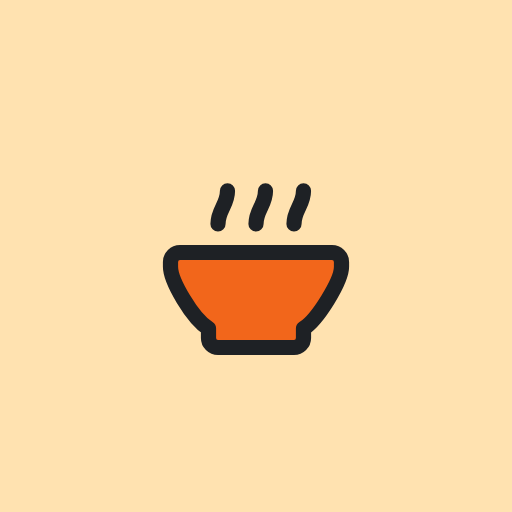
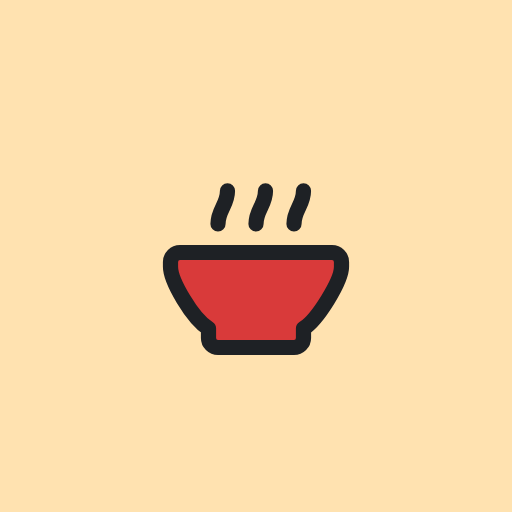
Use tomato red as the main colour, as KK picked
Claude-Session: https://claude.ai/code/session_01UUho5tkZFmqzneSbudSL4Z

Changed region(s): [[0.3438, 0.5, 0.6562, 0.6875]]

diff --git a/index.html b/index.html
@@ -21,11 +21,11 @@
 <link rel="stylesheet" href="https://fonts.googleapis.com/css2?family=Unbounded:wght@500;700&family=Nunito:ital,wght@0,400;0,600;0,700;0,800;1,400&display=swap">
 <style>
 /* Layout: "Citrus & herbs". Clean off-white page with charcoal text (no browns), white cards, today's meals up top, the week as seven day cards with a juicy tile per meal
-   (breakfast mango, lunch lime, dinner papaya, snack strawberry). Orange for actions and emphasis, lime green for ticks.
-   Colours and fonts are this app's own: none of KK's other apps use orange, or Unbounded with Nunito (both have Cyrillic). */
+   (breakfast mango, lunch lime, dinner papaya, snack strawberry). Tomato red for actions and emphasis, lime green for ticks.
+   Colours and fonts are this app's own: none of KK's other apps use tomato red as the main colour, or Unbounded with Nunito (both have Cyrillic). */
 :root {
   --bg: #FAFAF7; --dot: transparent; --surface: #FFFFFF; --surface-2: #F3F4F1; --ink: #1E2125; --muted: #686E76; --line: #E6E7E3; --line-strong: #1E2125;
-  --accent: #F2661B; --accent-ink: #FFFFFF; --accent-soft: #FFE6D6; --pop: #FFE2B0;
+  --accent: #D93A3A; --accent-ink: #FFFFFF; --accent-soft: #FDE1E0; --pop: #FFE2B0;
   --bf-1: #FFE2B0; --bf-ink: #A45A00;
   --ln-1: #E4F4C2; --ln-ink: #4E7A10;
   --dn-1: #FFD2BF; --dn-ink: #B83A12;
@@ -39,15 +39,15 @@
 }
 @media (prefers-color-scheme: dark) { :root:not([data-theme="light"]) {
   --bg: #141619; --dot: transparent; --surface: #1D2024; --surface-2: #25292E; --ink: #F3F4F2; --muted: #A3A9B0; --line: #2E3238; --line-strong: #F3F4F2;
-  --accent: #FF8A47; --accent-ink: #141619; --accent-soft: #3A2A22; --pop: #3A2A22;
+  --accent: #FF6B66; --accent-ink: #141619; --accent-soft: #3A2426; --pop: #3A2426;
   --bf-1: #2B2A26; --bf-ink: #FFC56B; --ln-1: #252B22; --ln-ink: #BDE57A; --dn-1: #2D2523; --dn-ink: #FF9D78; --sn-1: #2D2329; --sn-ink: #FF9DB8;
-  --warn: #FF9D78; --warn-soft: #3A2A22; --ok: #A6D65A;
+  --warn: #FF9D78; --warn-soft: #3A2426; --ok: #A6D65A;
   --shadow: 0 1px 2px rgba(0, 0, 0, .3), 0 6px 18px rgba(0, 0, 0, .3); --shadow-lg: 0 18px 50px rgba(0, 0, 0, .6); color-scheme: dark } }
 :root[data-theme="dark"] {
   --bg: #141619; --dot: transparent; --surface: #1D2024; --surface-2: #25292E; --ink: #F3F4F2; --muted: #A3A9B0; --line: #2E3238; --line-strong: #F3F4F2;
-  --accent: #FF8A47; --accent-ink: #141619; --accent-soft: #3A2A22; --pop: #3A2A22;
+  --accent: #FF6B66; --accent-ink: #141619; --accent-soft: #3A2426; --pop: #3A2426;
   --bf-1: #2B2A26; --bf-ink: #FFC56B; --ln-1: #252B22; --ln-ink: #BDE57A; --dn-1: #2D2523; --dn-ink: #FF9D78; --sn-1: #2D2329; --sn-ink: #FF9DB8;
-  --warn: #FF9D78; --warn-soft: #3A2A22; --ok: #A6D65A;
+  --warn: #FF9D78; --warn-soft: #3A2426; --ok: #A6D65A;
   --shadow: 0 1px 2px rgba(0, 0, 0, .3), 0 6px 18px rgba(0, 0, 0, .3); --shadow-lg: 0 18px 50px rgba(0, 0, 0, .6); color-scheme: dark }
 
 * { box-sizing: border-box }

diff --git a/meal-planner.html b/meal-planner.html
@@ -4,11 +4,11 @@
 <link rel="stylesheet" href="https://fonts.googleapis.com/css2?family=Unbounded:wght@500;700&family=Nunito:ital,wght@0,400;0,600;0,700;0,800;1,400&display=swap">
 <style>
 /* Layout: "Citrus & herbs". Clean off-white page with charcoal text (no browns), white cards, today's meals up top, the week as seven day cards with a juicy tile per meal
-   (breakfast mango, lunch lime, dinner papaya, snack strawberry). Orange for actions and emphasis, lime green for ticks.
-   Colours and fonts are this app's own: none of KK's other apps use orange, or Unbounded with Nunito (both have Cyrillic). */
+   (breakfast mango, lunch lime, dinner papaya, snack strawberry). Tomato red for actions and emphasis, lime green for ticks.
+   Colours and fonts are this app's own: none of KK's other apps use tomato red as the main colour, or Unbounded with Nunito (both have Cyrillic). */
 :root {
   --bg: #FAFAF7; --dot: transparent; --surface: #FFFFFF; --surface-2: #F3F4F1; --ink: #1E2125; --muted: #686E76; --line: #E6E7E3; --line-strong: #1E2125;
-  --accent: #F2661B; --accent-ink: #FFFFFF; --accent-soft: #FFE6D6; --pop: #FFE2B0;
+  --accent: #D93A3A; --accent-ink: #FFFFFF; --accent-soft: #FDE1E0; --pop: #FFE2B0;
   --bf-1: #FFE2B0; --bf-ink: #A45A00;
   --ln-1: #E4F4C2; --ln-ink: #4E7A10;
   --dn-1: #FFD2BF; --dn-ink: #B83A12;
@@ -22,15 +22,15 @@
 }
 @media (prefers-color-scheme: dark) { :root:not([data-theme="light"]) {
   --bg: #141619; --dot: transparent; --surface: #1D2024; --surface-2: #25292E; --ink: #F3F4F2; --muted: #A3A9B0; --line: #2E3238; --line-strong: #F3F4F2;
-  --accent: #FF8A47; --accent-ink: #141619; --accent-soft: #3A2A22; --pop: #3A2A22;
+  --accent: #FF6B66; --accent-ink: #141619; --accent-soft: #3A2426; --pop: #3A2426;
   --bf-1: #2B2A26; --bf-ink: #FFC56B; --ln-1: #252B22; --ln-ink: #BDE57A; --dn-1: #2D2523; --dn-ink: #FF9D78; --sn-1: #2D2329; --sn-ink: #FF9DB8;
-  --warn: #FF9D78; --warn-soft: #3A2A22; --ok: #A6D65A;
+  --warn: #FF9D78; --warn-soft: #3A2426; --ok: #A6D65A;
   --shadow: 0 1px 2px rgba(0, 0, 0, .3), 0 6px 18px rgba(0, 0, 0, .3); --shadow-lg: 0 18px 50px rgba(0, 0, 0, .6); color-scheme: dark } }
 :root[data-theme="dark"] {
   --bg: #141619; --dot: transparent; --surface: #1D2024; --surface-2: #25292E; --ink: #F3F4F2; --muted: #A3A9B0; --line: #2E3238; --line-strong: #F3F4F2;
-  --accent: #FF8A47; --accent-ink: #141619; --accent-soft: #3A2A22; --pop: #3A2A22;
+  --accent: #FF6B66; --accent-ink: #141619; --accent-soft: #3A2426; --pop: #3A2426;
   --bf-1: #2B2A26; --bf-ink: #FFC56B; --ln-1: #252B22; --ln-ink: #BDE57A; --dn-1: #2D2523; --dn-ink: #FF9D78; --sn-1: #2D2329; --sn-ink: #FF9DB8;
-  --warn: #FF9D78; --warn-soft: #3A2A22; --ok: #A6D65A;
+  --warn: #FF9D78; --warn-soft: #3A2426; --ok: #A6D65A;
   --shadow: 0 1px 2px rgba(0, 0, 0, .3), 0 6px 18px rgba(0, 0, 0, .3); --shadow-lg: 0 18px 50px rgba(0, 0, 0, .6); color-scheme: dark }
 
 * { box-sizing: border-box }

diff --git a/sw.js b/sw.js
@@ -1,6 +1,6 @@
 // Offline support. The page itself is fetched fresh when online (so updates show on the next open)
 // and falls back to the cache when offline; other files come from the cache and refresh in the background.
-const CACHE = "meal-planner-v5";
+const CACHE = "meal-planner-v6";
 const SHELL = ["./", "./index.html", "./manifest.webmanifest", "./icons/icon-192.png", "./icons/icon-512.png"];
 
 self.addEventListener("install", e => {
